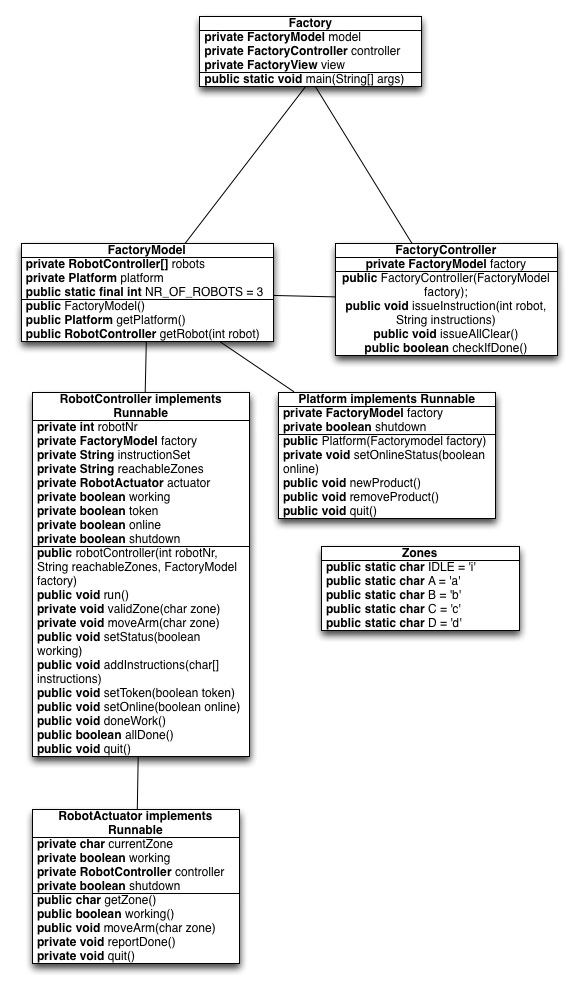
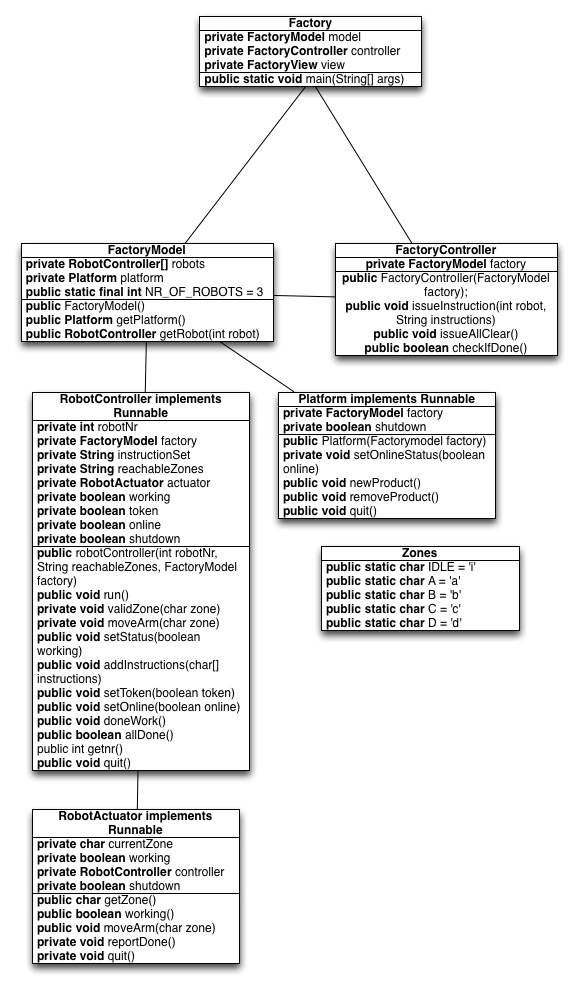
how's about this? awesome System.out messages for demo goodness. Will have to be changed when we are actually going to do stuff with JTorX though...

Changed region(s): [[0.0312, 0.7295, 0.4367, 0.7903]]

diff --git a/Java Source/factory/RobotController.java b/Java Source/factory/RobotController.java
@@ -31,7 +31,7 @@ public class RobotController implements Runnable{
 	}
 	
 	public void run(){
-		System.out.println("Robot " + robotNr + " starting...");
+		System.out.println("[System] Starting up...");
 		RobotController next_robot = factory.getRobot((robotNr + 1) % FactoryModel.NR_OF_ROBOTS);
 		while(!shutdown){
 			if(online){
@@ -44,14 +44,14 @@ public class RobotController implements Runnable{
 					if (token == true && validZone(nextInstruction)){
 						boolean permission = askPermission(nextInstruction);
 						if(permission){
-							System.out.println("Permission was granted. Passing token.");
+							System.out.println("Robot "+robotNr+": permission was granted. Passing token.");
 							instructionSet = instructionSet.substring(1);
 							executeInstruction(nextInstruction);
-							System.out.println("Robot " + robotNr + ": Executing instruction. Current set is: " + instructionSet);
+							System.out.println("Robot " + robotNr + ": Executing instruction. Current set is: '" + instructionSet + "'");
 							//TODO: this needs to be changed to a call to the controller eventually, nack'ing the instruction.
-						}else System.out.println("permission was denied to robot " + robotNr + ", passing token.");
+						}
 					}else if(!validZone(nextInstruction)){
-						System.out.println("robot " + robotNr + ": " + nextInstruction + " is not a reachable zone, skipping.");
+						System.out.println("Robot " + robotNr + ": " + nextInstruction + " is not a reachable zone, skipping.");
 						instructionSet = instructionSet.substring(1);
 					}
 				}else{
@@ -89,10 +89,9 @@ public class RobotController implements Runnable{
 		boolean result = true;
 		int nextRobot = (robotNr + 1) % FactoryModel.NR_OF_ROBOTS;
 		for (int i = nextRobot; !(i==robotNr); i = (i+1) % FactoryModel.NR_OF_ROBOTS){
-			System.out.println("robot "+ robotNr + " asks permission of " + i);
 			result = result && (factory.getRobot(i).grantPermission(zone));
-			System.out.println("robot " + i + " says " + result + " to zone " + zone);
 		}
+		if(!result) System.out.println("Robot "+robotNr+": Permission to move to zone '"+zone+"' was denied. Passing token.");
 		return result;
 	}
 	
@@ -179,6 +178,8 @@ public class RobotController implements Runnable{
 		actuator.quit();
 		shutdown = true;
 	}
+	
+	public int getNr(){return robotNr;}
 	
 	
 }

diff --git a/Java Source/factory/RobotActuator.java b/Java Source/factory/RobotActuator.java
@@ -19,7 +19,7 @@ public class RobotActuator implements Runnable{
 	 * returns the zone in which the robot currently resides.
 	 * @return char zone: a char which represents the current zone, where
 	 */
-	public char getZone(){
+	public  synchronized char getZone(){
 		return currentZone;
 	}
 	
@@ -29,8 +29,8 @@ public class RobotActuator implements Runnable{
 			try{Thread.sleep(500);}
 			catch(InterruptedException e){System.out.println("oh noes, an interruptedException.");}
 			if(working){
-				//chance of 1 in 35 to stop working.
-				working = (new Random().nextInt(35) != 0);
+				//chance of 1 in 30 to stop working.
+				working = (new Random().nextInt(30) != 0);
 				if (!working) reportDone();
 			}
 		}
@@ -50,8 +50,8 @@ public class RobotActuator implements Runnable{
 	 * @param zone
 	 */
 	
-	private void moveArm(char zone){
-		System.out.println("Moving to zone: "+zone);
+	private synchronized void moveArm(char zone){
+		System.out.println("Robot "+controller.getNr()+": Moved to zone: "+zone);
 		currentZone = zone;
 	}
 	
@@ -80,7 +80,7 @@ public class RobotActuator implements Runnable{
 	 * reports the completion of the instruction to the robot controller.
 	 */
 	private void reportDone(){
-		System.out.println("Instruction completed.");
+		System.out.println("Robot "+controller.getNr()+": Instruction completed.");
 		controller.doneWork();
 	}
 	

diff --git a/Java Source/implementation/Factory.java b/Java Source/implementation/Factory.java
@@ -28,9 +28,9 @@ public class Factory {
 			Thread.sleep(5000);
 			}catch(InterruptedException e){}
 		}
-		System.out.println("all done! Signaling product removal.");
+		System.out.println("[System] all done! Signaling product removal.");
 		model.getPlatform().removeProduct();
-		System.out.println("Done with product creation. Cleaning up & shutting down.");
+		System.out.println("[System] Done with product creation. Cleaning up & shutting down.");
 		controller.quit();
 	}
 

diff --git a/Java Source/implementation/FactoryModel.java b/Java Source/implementation/FactoryModel.java
@@ -17,7 +17,7 @@ public class FactoryModel {
 		platform = new Platform(this);
 		Thread p = new Thread(platform, "platform");
 		robots[0].setToken(true);
-		System.out.println("Robots and Platform successfully intialized...");
+		System.out.println("[System] Robots and Platform successfully intialized...");
 		robot1.start();
 		robot2.start();
 		robot3.start();

diff --git a/Java Source/factory/Platform.java b/Java Source/factory/Platform.java
@@ -12,7 +12,7 @@ public class Platform implements Runnable{
 	}
 	
 	public void run(){
-		System.out.println("platform starting...");
+		System.out.println("[System] platform starting...");
 		while(!shutdown){
 			newProduct();
 			synchronized(this){
